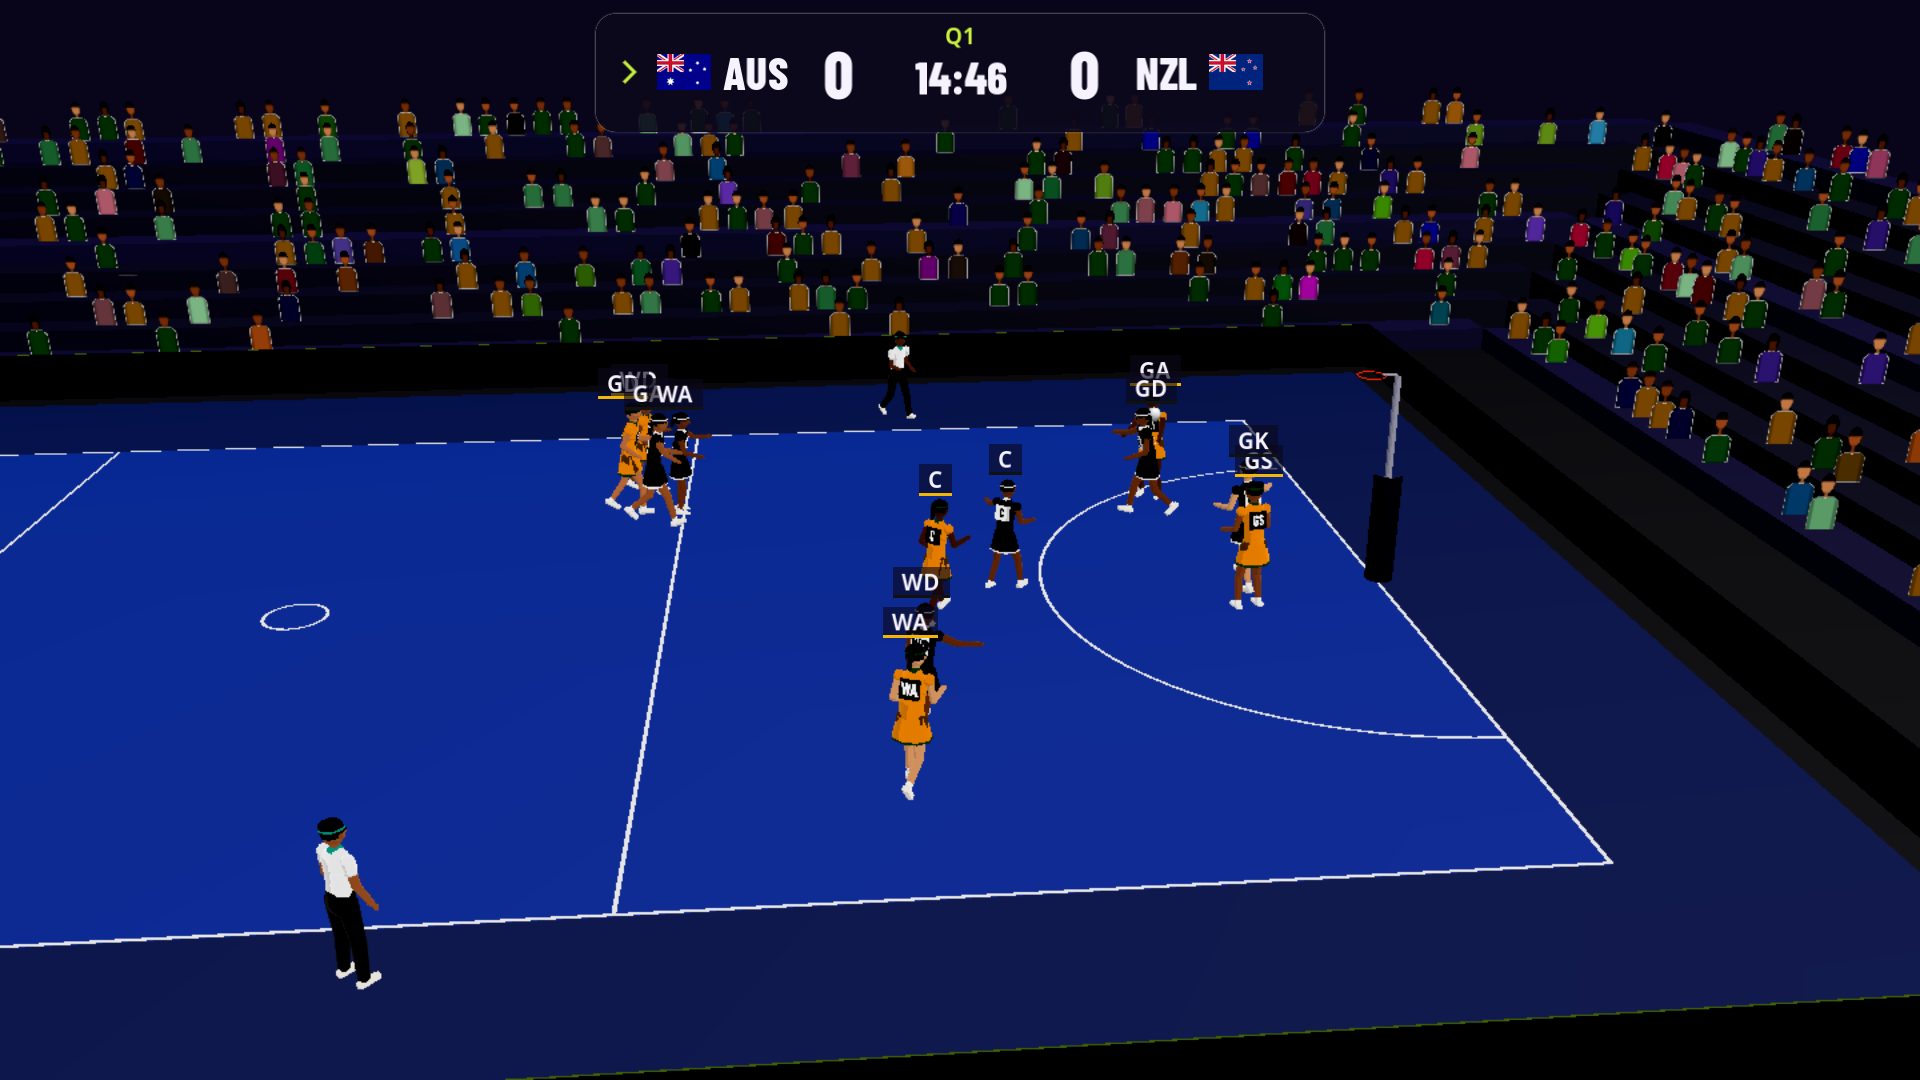
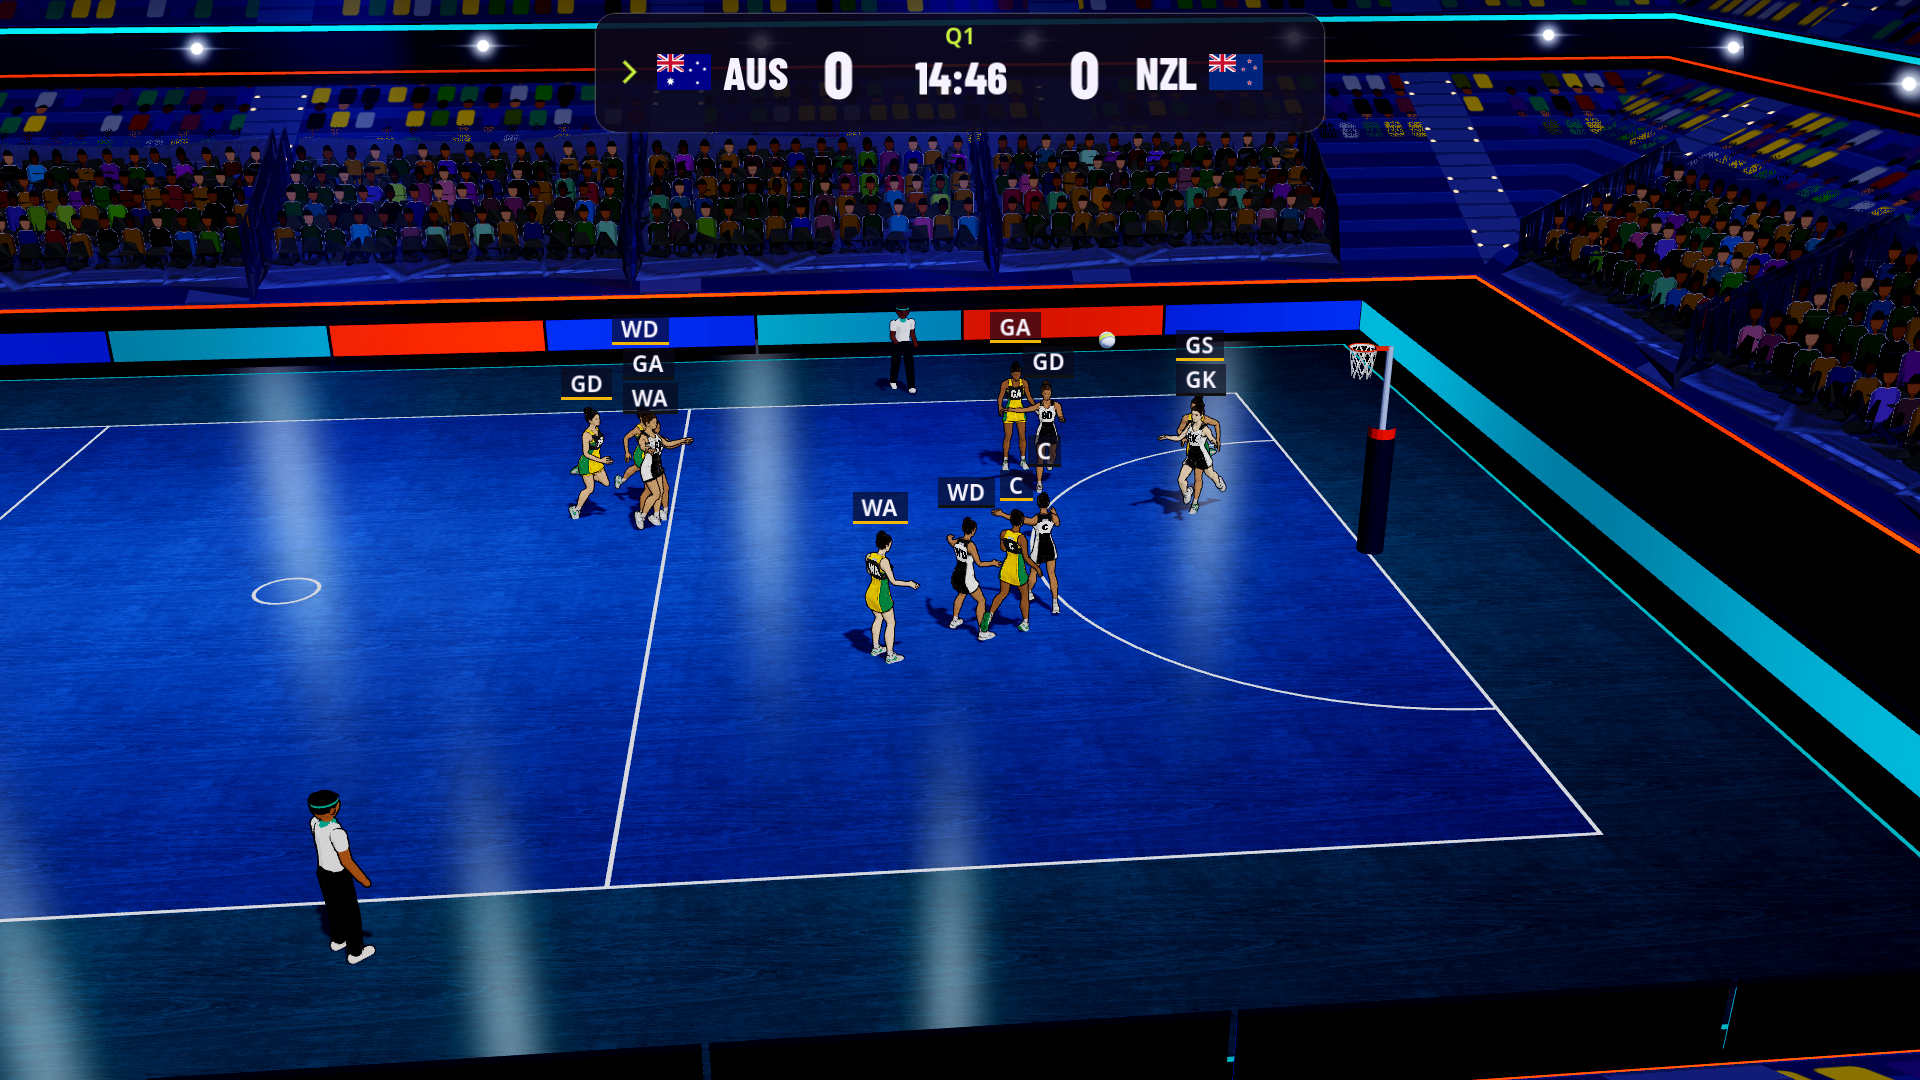
Credits, store screenshots and docs for the realistic venues
Settings > About > Licences credits Poly Haven (polyhaven.com), CC0, for the
skies, surfaces, lights and small things, and the owner's own models for the
stands, benches, trees, houses and street hoop (and the players). The store
screenshots are retaken at High. README: the Venues row, and the Phones row
with each venue's draw calls and triangles before and after at each level,
and the size of the venues' assets. PROGRESS: what was used, skipped or
moved and why, and the gaps that would need a new model.

Claude-Session: https://claude.ai/code/session_017CzG23FxV2MAZaGUFTP3f3

diff --git a/netball-game/README.md b/netball-game/README.md
@@ -22,9 +22,9 @@ languages.
 | **Modes** | Quick Match (any two of 23 nations, three venues, quarters of 5, 8, 10 or the real 15 minutes, four difficulty levels, the Double Zone league rule); the Nations Cup (two pools, semi-finals, bronze and final, tables by goal percentage, extra time in knockouts); the **Club Season** (eight invented clubs from Australia, New Zealand, England and South Africa, seven rounds, top four to the semi-finals, a grand final); league options (the Double Zone, time-outs, rolling changes); an Umpiring setting (fewer whistles, standard, or the real elite rate); records; an AI v AI match behind the home screen. |
 | **After the match** | The score by quarter, the player of the match, and a box score for each side: goals from attempts and shooting %, feeds, assists, centre pass receives, gains, intercepts, deflections, rebounds, penalties, turnovers. |
 | **Teams** | 23 national teams rated from the 2026 world ranking, by their plain names and flags (drawn in code; Northern Ireland, which has no official flag, gets a neutral one); squads of twelve with invented names from each country's common names. No national team's nickname, governing body, league or competition is named. |
-| **Venues** | An arena at night under rigs of floodlights: a polished deep-blue court, brightest where the lights fall and darker to its edges, with the lamps reflected in it, a teal run-off framed by a glowing line, boards of plain colour, a bowl of two tiers of seated people with aisle lights and phones twinkling, and on Medium and High beams of light and bloom. A sports hall with a timber floor and one stand, and an outdoor court on floodlight poles under the evening sky, as so much netball is played. The goals: a silver post, a glossy orange ring and a white corded net. Plain colours only. |
+| **Venues** | Realistic, from photo-scanned Poly Haven surfaces and skies (CC0) and the owner's own models. An arena at night under rigs of floodlights: a painted sprung-timber court in deep blue, brightest where the lights fall, the lamps reflected in it, a teal run-off framed by a glowing line, boards of plain colour, a bowl of two tiers of seated people with aisle lights and phones twinkling, and on Medium and High sections of the owner's metal courtside stand with people in their seats, beams of light and bloom. A community sports hall by day: a sprung maple floor with the netball court among the faint lines of other sports, painted block walls, blue pads, high windows, steel trusses with rows of fluorescent lights, clean regulation basketball boards, doors, clock, benches and a stepped stand of blue tip-up seats (a league crowd in its front rows on Medium and High). A park court at the end of the day under a photographed sky: green acrylic on asphalt, a chain-link fence, park benches, street lamps, jacarandas, oaks and broadleaves, terraced houses beyond, a street hoop on the next court, the floodlights coming on. The goals: a silver post, a glossy orange ring and a white corded net. |
 | **Languages** | English, Afrikaans, isiZulu, isiXhosa, Sesotho, Setswana, Chichewa, Luganda, chiShona, Kiswahili, Bahasa Melayu, 中文, සිංහල, தமிழ், Cymraeg, Te Reo Māori, Lea Faka-Tonga, Gagana Sāmoa, Na Vosa Vakaviti. The game starts in the phone's language when it has it; the globe on the home screen changes it. A text-fit audit checks every screen in every language at four screen shapes (`tests/fit_audit.gd`). See [docs/LANGUAGES.md](docs/LANGUAGES.md); the translations await native speakers' checks (docs/translation_notes/). |
-| **Phones** | GL Compatibility renderer; each venue three draw calls (its structure, what glows, its lights; painted by its shaders), the crowd one draw call, each player one (two with the outline). The players' model is 5,840 triangles (with its own levels for far away), 1,460 on Low. A match in the arena, the biggest venue, draws **94 draw calls and 32,000 triangles a frame on Low**, 111 and 191,000 on Medium, 148 and 399,000 on High (`tests/perf_probe.tscn`). Budgets: 100 draw calls and 100,000 triangles on Low, for a Mali-G52 at 720p. Phones with a small GPU or under about 4.5 GB of memory start on Low (no outlines, no MSAA, 75% render scale, a thinner crowd, fewer sides to each body part); auto graphics drops a level if the first 20 seconds of a match run under 36 fps. Frame rate: Battery saver (about 30 a second at 80% scale), 60, or the screen's maximum, each a whole fraction of the refresh rate. A developer overlay (frame-time percentiles, hitches, Copy summary) behind seven taps on the version. |
+| **Phones** | GL Compatibility renderer; each venue a few draw calls (its structure, what glows, its lights, painted by its shaders; its models merged into one mesh with one texture atlas), the crowd one draw call, each player one (two with the outline). The players' model is 5,840 triangles (with its own levels for far away), 1,460 on Low. A match on the broadcast camera, before and after the realistic venues (draw calls / triangles, `tests/perf_probe.tscn`): **arena** Low 94 / 31,800 → 94 / 31,800, Medium 111 / 191,000 → 112 / 280,000, High 148 / 399,000 → 149 / 487,000; **hall** Low 94 / 31,300 → 96 / 74,600, Medium 110 / 190,000 → 113 / 273,000, High 147 / 397,000 → 152 / 492,000; **outdoor** Low 94 / 32,300 → 95 / 59,000, Medium 111 / 192,000 → 112 / 293,000, High 166 / 504,000 → 176 / 654,000 (the courtside and behind-the-goal cameras: at most 96 draw calls on Low and 180 on High). Budgets: 100 draw calls and 100,000 triangles on Low, for a Mali-G52 at 720p. The venues' copied assets (skies, surfaces, baked models and atlases in assets/venue) come to 9.4 MB (the arena's stand 0.5 MB of it). Phones with a small GPU or under about 4.5 GB of memory start on Low (no outlines, no MSAA, 75% render scale, a thinner crowd, fewer sides to each body part); auto graphics drops a level if the first 20 seconds of a match run under 36 fps. Frame rate: Battery saver (about 30 a second at 80% scale), 60, or the screen's maximum, each a whole fraction of the refresh rate. A developer overlay (frame-time percentiles, hitches, Copy summary) behind seven taps on the version. |
 | **Play** | Target API 36, 64-bit with 16 KB pages (checked in CI), category Game, landscape, the only permission vibration; no internet, ads, purchases, analytics or data collected. The Play bundle carries 32-bit ARM too, for the older phones common in southern and eastern Africa. |
 
 ## Controls

diff --git a/netball-game/docs/PROGRESS.md b/netball-game/docs/PROGRESS.md
@@ -45,6 +45,16 @@ reasons. Anyone picking the work up (after a usage limit, a restart, a context s
 - Round three (0.3.0-beta): renamed Netball Unleashed (package com.netballunleashed.game), the owner's artwork as
   the icon and feature graphic; the players are the owner's 3D model with the shared Fast_Run (tools/player); the
   venues relit and rebuilt (game/venue_look.gd); one white line between the home screen's competitions.
+- The graphics update (October 2026, the lead's shared assets, plan `shared-assets/plans/netball-unleashed.md`):
+  every venue realistic. The hall: a community sports hall by day (maple floor with the other sports' lines, block
+  walls, pads, high windows, trusses and fluorescent lights, FIBA-size basketball boards built from primitives in
+  place of the old back-wall hoop, doors, clock, fire alarms, exit signs, wet floor sign, gym and painted benches, a
+  stepped stand of blue tip-up seats with a league crowd in its front rows). The outdoor court: a park court under
+  Poly Haven's netball-court sky, green acrylic on asphalt, chain-link fence, park benches, street lamps, trees as
+  cut-outs, terraced houses, the street hoop next door. The arena: a painted sprung-timber court (the maple grain
+  under the paint) and, on Medium and High, sections of the owner's metal stand as courtside seating with people
+  in its seats. The models are baked by tools/venue/bake.gd into one mesh and one atlas per venue (VenueProps, one
+  draw call). Credits in Settings > About > Licences. Store screenshots refreshed.
 
 ## Next
 
@@ -113,4 +123,28 @@ reasons. Anyone picking the work up (after a usage limit, a restart, a context s
   Assets that suit more than one game come from it, listed in `shared-assets/README.md` on branch
   `claude/shared-assets` (large files on the "shared-assets" GitHub release) with each one's source, licence and the
   games it suits. When one arrives, a message says what it is and how to fetch it.
-
+- **The graphics update: what was used, skipped or moved, and why.**
+  - Used as the plan says: hall (white_maple_veneer, concrete_block_wall normal map, ceiling_interior,
+    fluorescent_light, wall_clock, fire_alarm, wet_floor_sign, gym_bench, painted_bench, gym_01 HDR for reflections
+    on Medium and High); outdoor (netball_court sky and HDR, clean_asphalt, asphalt_02, park_bench,
+    street_lamp_tall, basketball_hoop on the neighbouring court, jacaranda, oak and small_broadleaf cut-outs,
+    grass_clumps, terrace_row); arena (bleacher_metal).
+  - Moved or changed: the hall's basketball boards are built from primitives to FIBA measurements, as the plan asks
+    (the owner's street hoop is outdoors only); the main court's boards are winched up to the roof, the cross-court
+    boards on the far wall. The oak is a cut-out even on High (the mesh reads faceted this close to the cameras).
+    plastered_wall and hanging_lamp not used (painted block and slats, and the fluorescent battens, read better).
+  - Arena: bleacher_metal is used only on Medium and High, as courtside seating in front of the lower tier on the far
+    side and both ends (not the near side, under the cameras), with the crowd's people in its seats; the lower tier
+    is not rebuilt (its painted seated crowd and the floodlit look stay). Its `_low` model is not used: the
+    decimation broke its seats into shards, and on Low the painted tier is cheaper and looks better. The model is
+    8,000 triangles a section (11 sections, about 88,000 triangles on Medium and High).
+  - The hall's stand was a slope with seated people painted on it, which read as coloured bars from the end and
+    courtside cameras; it is now stepped rows of real tip-up seats (folded up where no one sits), with people (Crowd
+    cut-outs) in the front three rows on Medium and High only, so they stay out of the courtside camera's view
+    except for a row of heads along its bottom edge. Low shows the empty seats.
+  - Outdoors the sun's shadows reach 55 m (they used to reach 100): the trees, lamps and houses beyond cost the
+    shadow pass draw calls for shadows no one sees (the courtside camera on High: 207 draw calls down to 180).
+    Indoors the default stays: there the shorter reach crowded the players into more splits (+25 draw calls).
+  - Gaps that would need a new model (not generated; the owner's Meshy credits are not spent): a clean low-poly
+    courtside bleacher for Low (bleacher_metal_low is broken), and a proper arena seat or seated-spectator model to
+    replace the painted tiers. Neither is needed to ship.
